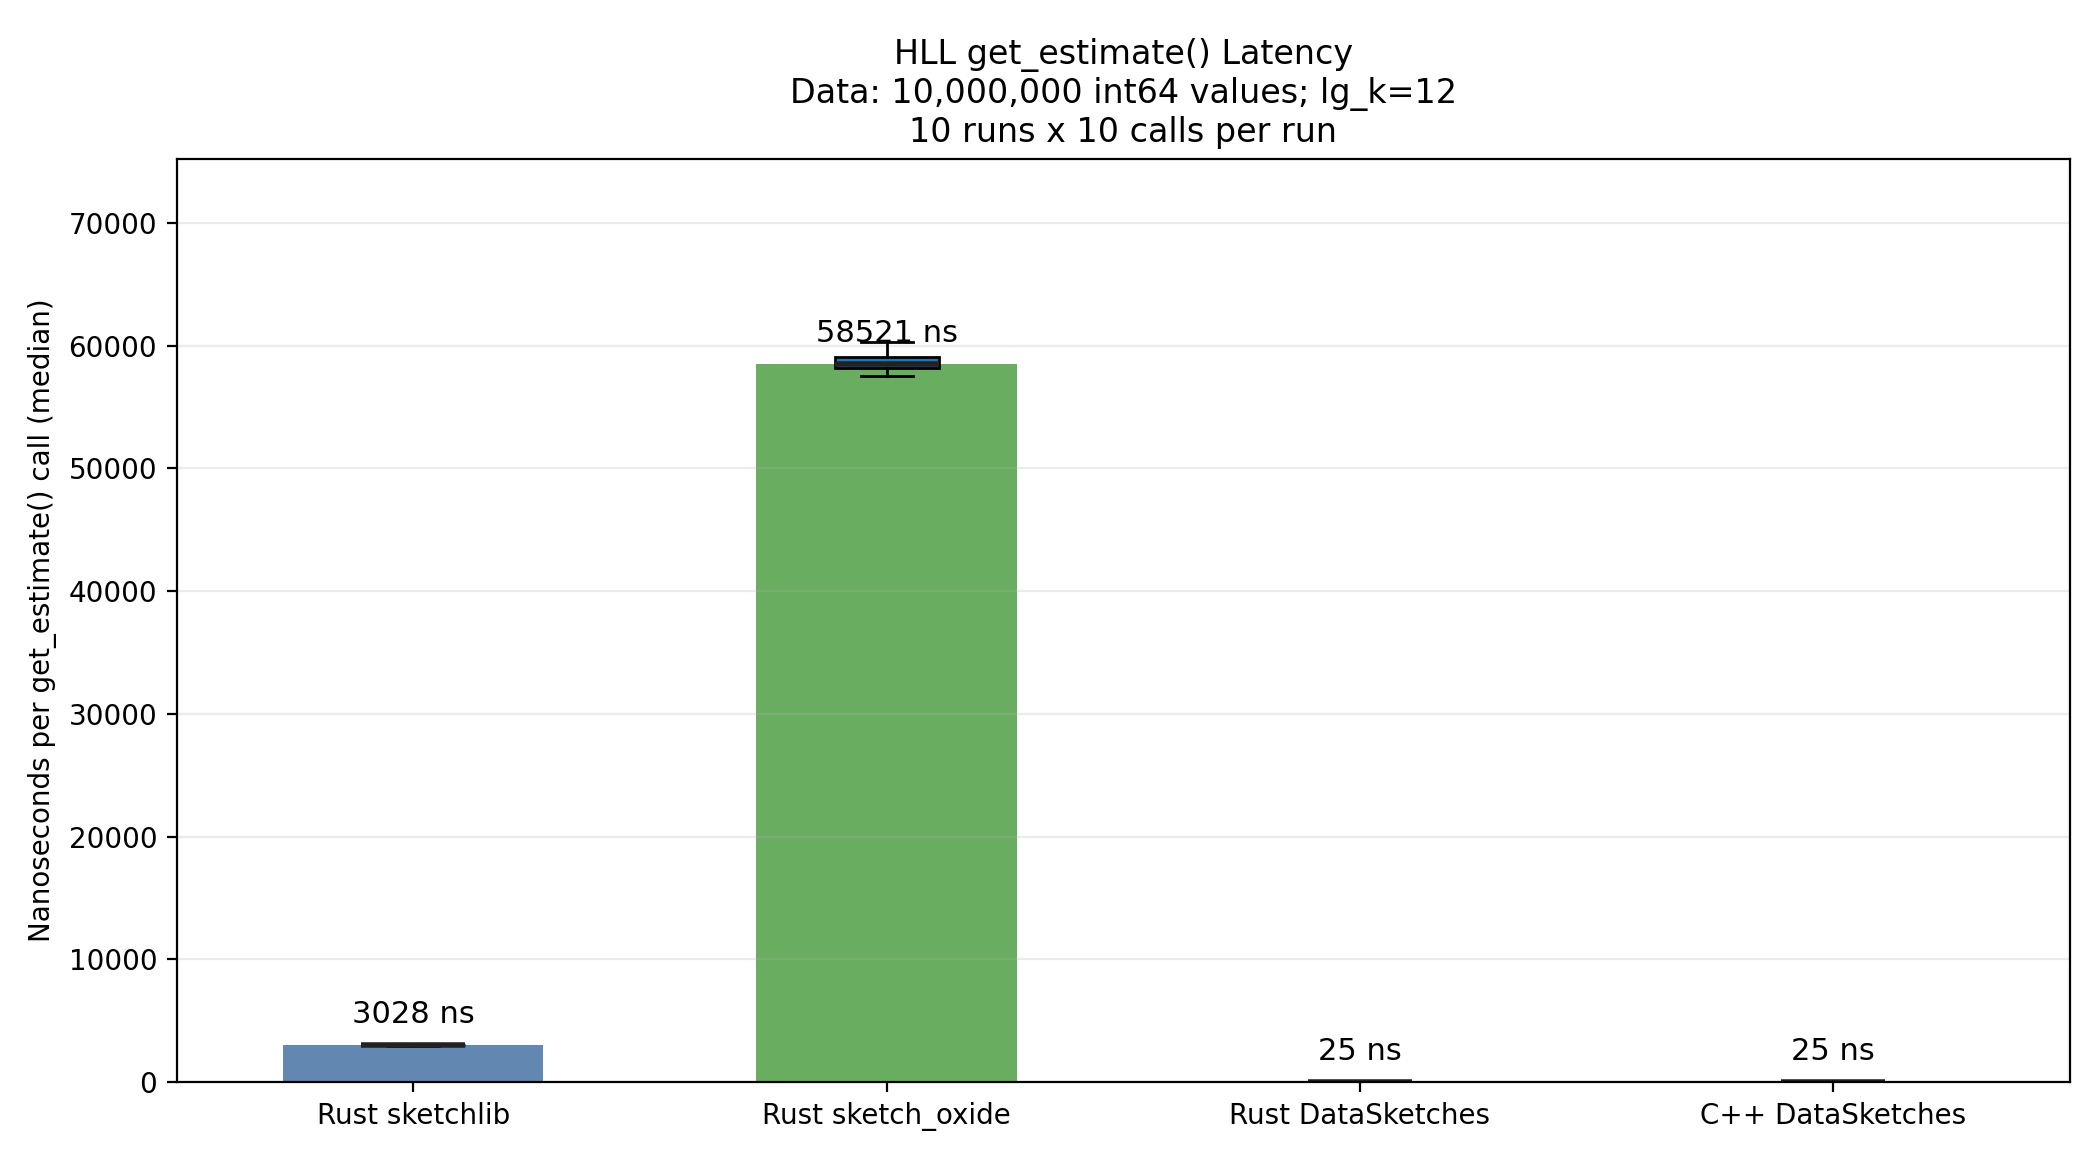
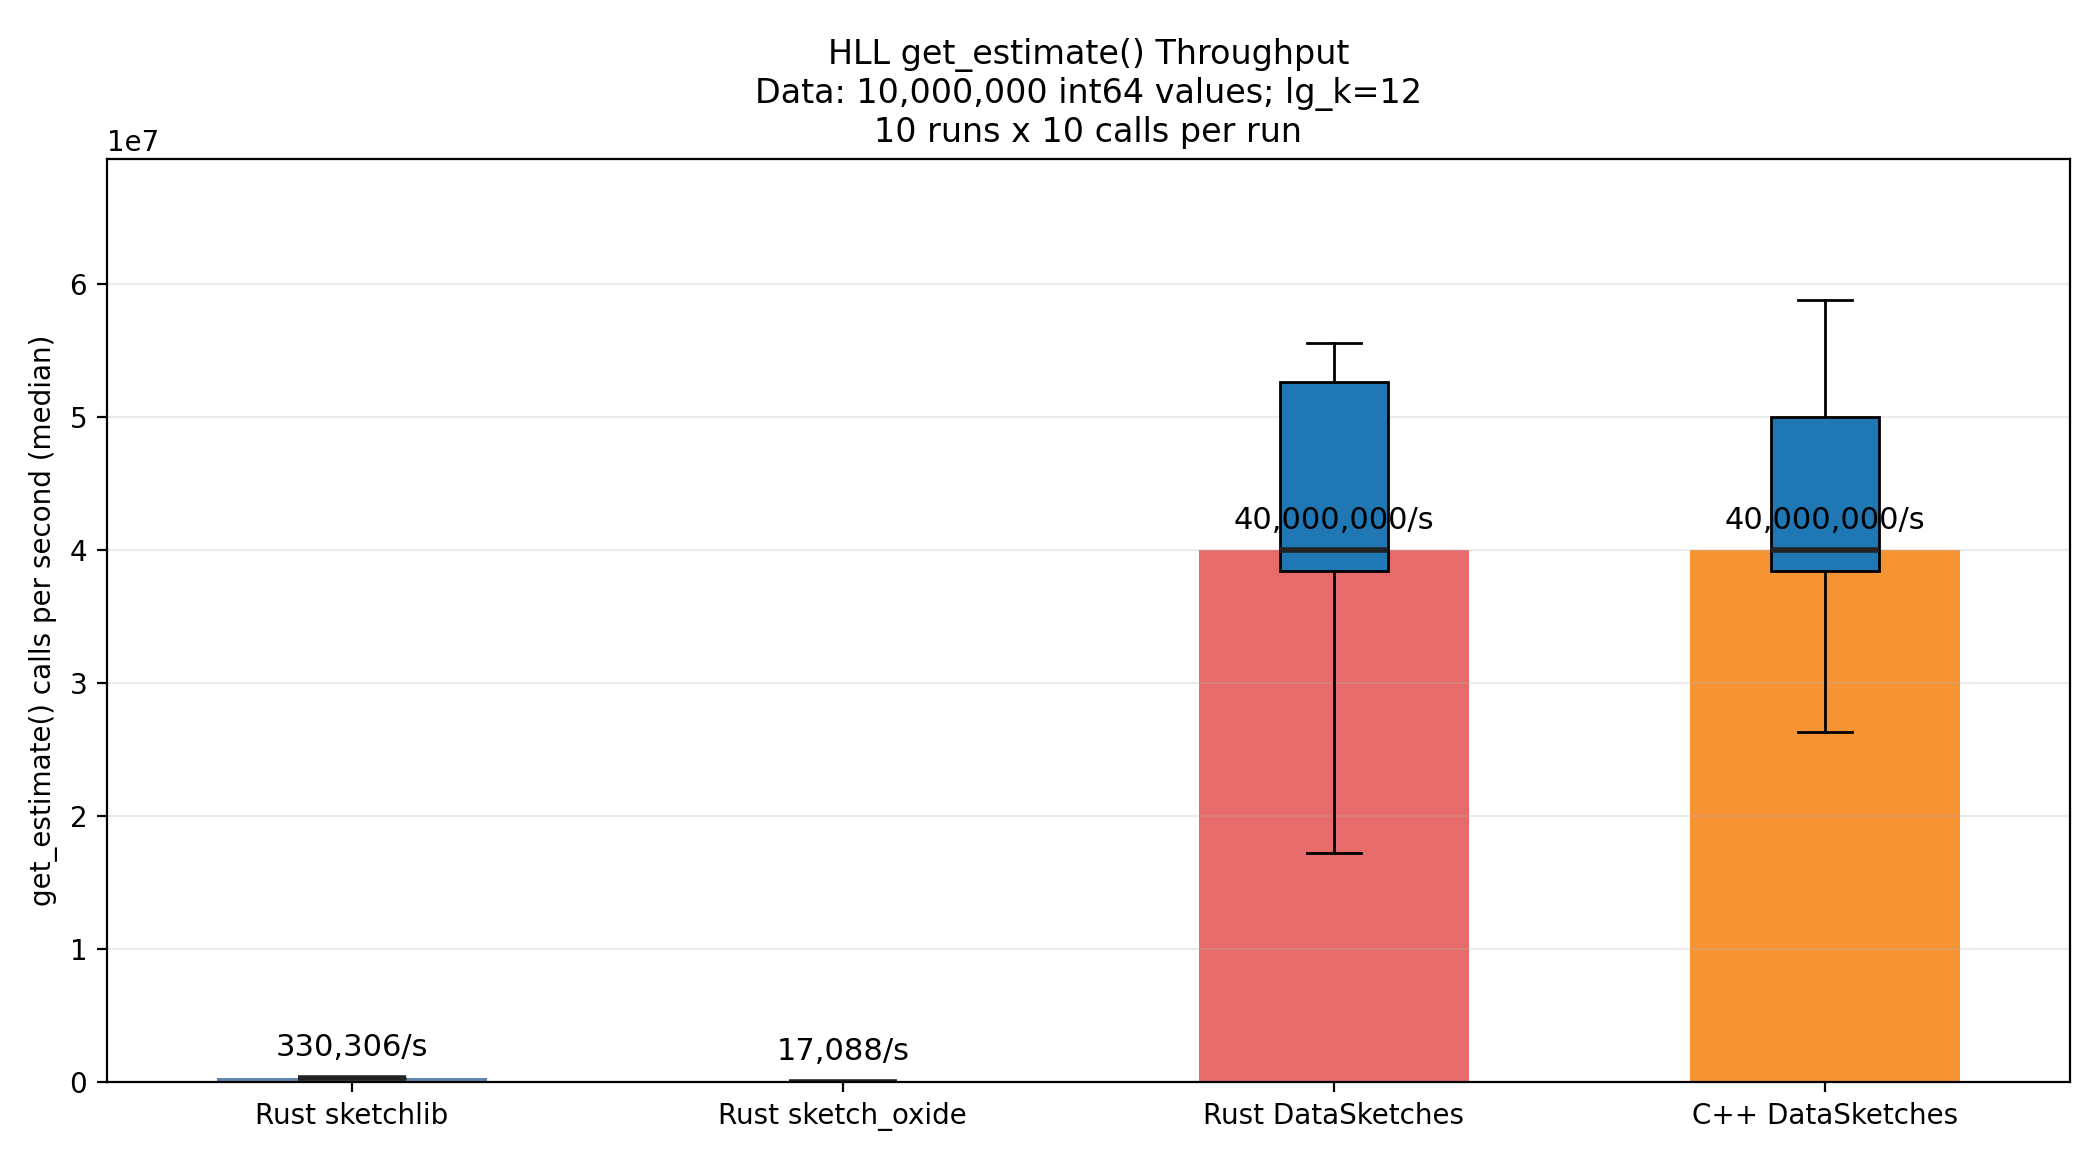
hll and kll query throughput is not ideal yet

diff --git a/throughput/scripts/plot_kll_throughput_query.py b/throughput/scripts/plot_kll_throughput_query.py
@@ -49,7 +49,15 @@ def render_plot(rows: list[dict[str, str]], output: Path) -> None:
     implementations = [name for name in COLORS if grouped.get(name)]
     if not implementations:
         raise ValueError("no known implementations present")
-    medians = [statistics.median(grouped[name]) for name in implementations]
+    ns_medians = [statistics.median(grouped[name]) for name in implementations]
+    throughputs = [
+        (1e9 / ns) if ns > 0 else 0.0 for ns in ns_medians
+    ]
+    throughput_samples = {
+        name: [(1e9 / ns) if ns > 0 else 0.0 for ns in grouped[name]]
+        for name in implementations
+    }
+    medians = throughputs
     positions = list(range(len(implementations)))
 
     output.parent.mkdir(parents=True, exist_ok=True)
@@ -62,7 +70,7 @@ def render_plot(rows: list[dict[str, str]], output: Path) -> None:
         alpha=0.88,
     )
     ax.boxplot(
-        [grouped[name] for name in implementations],
+        [throughput_samples[name] for name in implementations],
         positions=positions,
         widths=0.22,
         patch_artist=True,
@@ -74,23 +82,23 @@ def render_plot(rows: list[dict[str, str]], output: Path) -> None:
     k_str = next(iter(k_set)) if k_set else "?"
     ax.set_title(
         "\n".join([
-            "KLL quantile() Latency",
+            "KLL quantile() Throughput",
             f"Data: {n_str:,} int64 values; k={k_str}",
             "10 runs x 10 repeats x 101 percentiles (p0..p100)",
         ])
     )
-    ax.set_ylabel("Nanoseconds per quantile() call (median)")
+    ax.set_ylabel("quantile() calls per second (median)")
     ax.set_xticks(positions)
     ax.set_xticklabels([LABELS[name] for name in implementations])
     ax.grid(True, axis="y", alpha=0.25)
 
-    max_height = max(max(values) for values in grouped.values())
+    max_height = max(max(values) for values in throughput_samples.values())
     ax.set_ylim(0, max_height * 1.18)
     for bar, value in zip(bars, medians):
         ax.text(
             bar.get_x() + bar.get_width() / 2,
             bar.get_height() + max_height * 0.02,
-            f"{value:.0f} ns",
+            f"{value:,.0f}/s",
             ha="center",
             va="bottom",
             fontsize=11,

diff --git a/throughput/scripts/plot_hll_throughput_query.py b/throughput/scripts/plot_hll_throughput_query.py
@@ -51,7 +51,15 @@ def render_plot(rows: list[dict[str, str]], output: Path) -> None:
     implementations = [name for name in COLORS if grouped.get(name)]
     if not implementations:
         raise ValueError("no known implementations present")
-    medians = [statistics.median(grouped[name]) for name in implementations]
+    ns_medians = [statistics.median(grouped[name]) for name in implementations]
+    throughputs = [
+        (1e9 / ns) if ns > 0 else 0.0 for ns in ns_medians
+    ]
+    throughput_samples = {
+        name: [(1e9 / ns) if ns > 0 else 0.0 for ns in grouped[name]]
+        for name in implementations
+    }
+    medians = throughputs
     positions = list(range(len(implementations)))
 
     output.parent.mkdir(parents=True, exist_ok=True)
@@ -64,7 +72,7 @@ def render_plot(rows: list[dict[str, str]], output: Path) -> None:
         alpha=0.88,
     )
     ax.boxplot(
-        [grouped[name] for name in implementations],
+        [throughput_samples[name] for name in implementations],
         positions=positions,
         widths=0.22,
         patch_artist=True,
@@ -76,23 +84,23 @@ def render_plot(rows: list[dict[str, str]], output: Path) -> None:
     k_str = next(iter(lg_k)) if lg_k else "?"
     ax.set_title(
         "\n".join([
-            "HLL get_estimate() Latency",
+            "HLL get_estimate() Throughput",
             f"Data: {n_str:,} int64 values; lg_k={k_str}",
             "10 runs x 10 calls per run",
         ])
     )
-    ax.set_ylabel("Nanoseconds per get_estimate() call (median)")
+    ax.set_ylabel("get_estimate() calls per second (median)")
     ax.set_xticks(positions)
     ax.set_xticklabels([LABELS[name] for name in implementations])
     ax.grid(True, axis="y", alpha=0.25)
 
-    max_height = max(max(values) for values in grouped.values())
+    max_height = max(max(values) for values in throughput_samples.values())
     ax.set_ylim(0, max_height * 1.18)
     for bar, value in zip(bars, medians):
         ax.text(
             bar.get_x() + bar.get_width() / 2,
             bar.get_height() + max_height * 0.02,
-            f"{value:.0f} ns",
+            f"{value:,.0f}/s",
             ha="center",
             va="bottom",
             fontsize=11,
